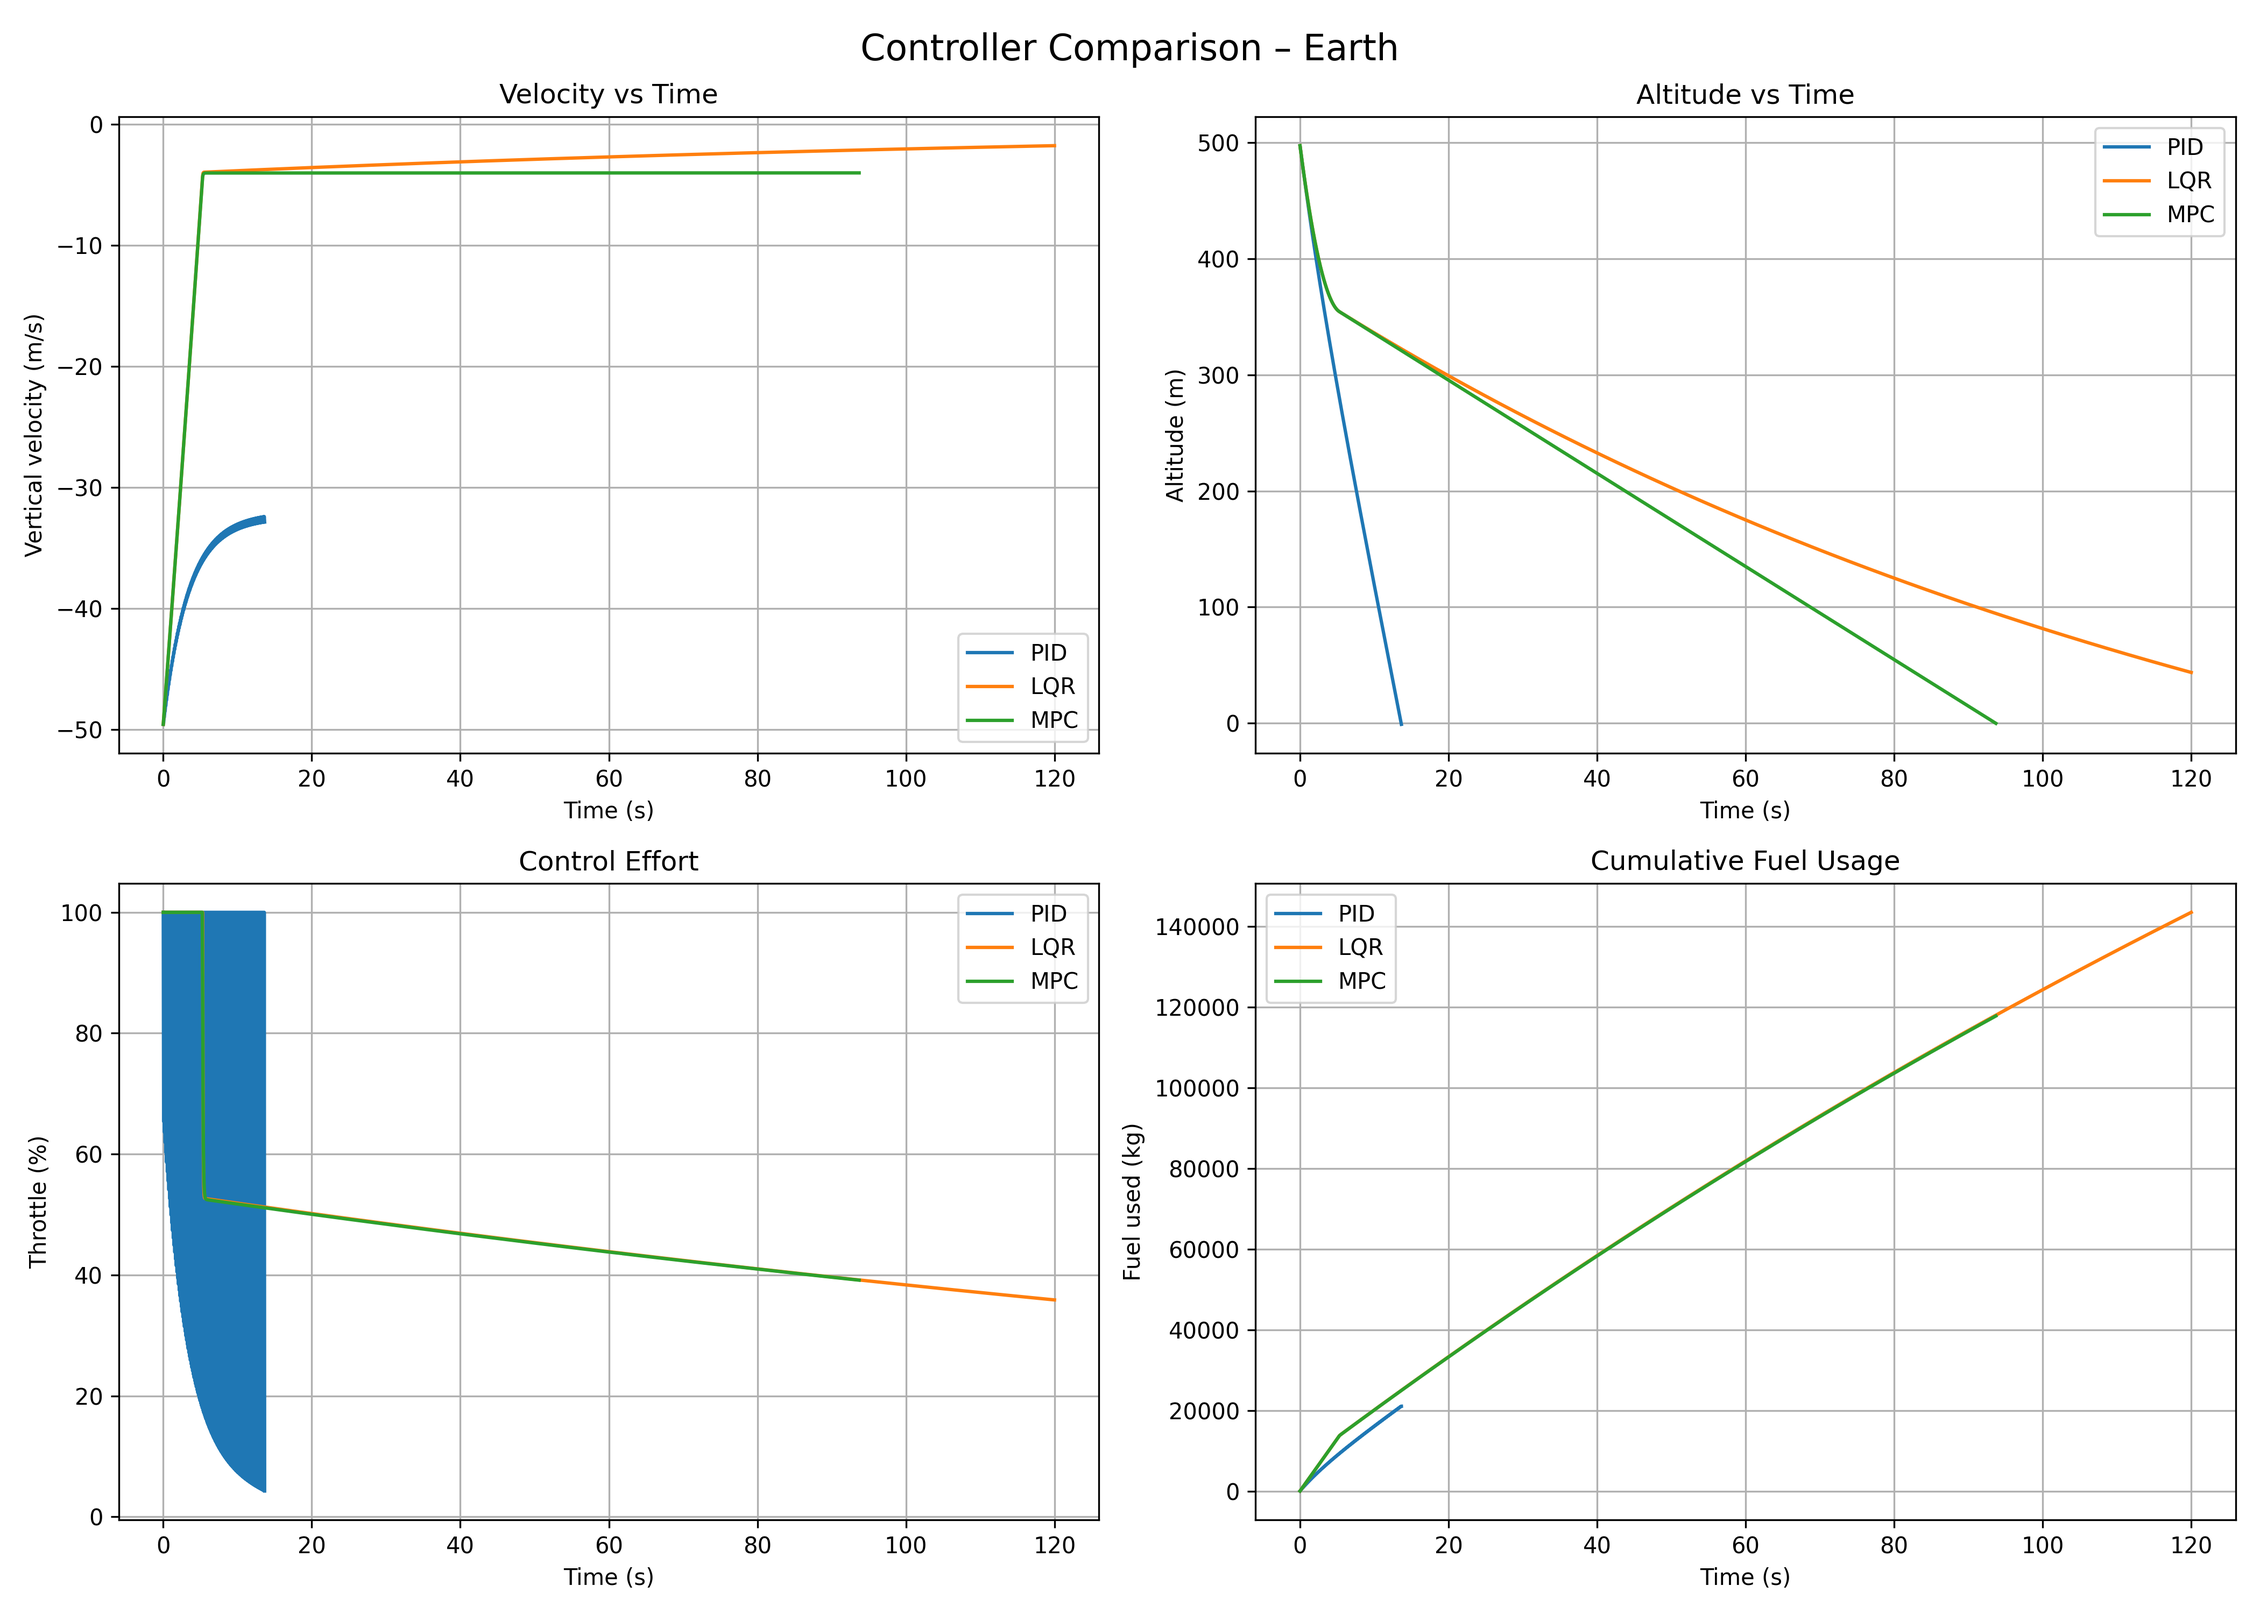
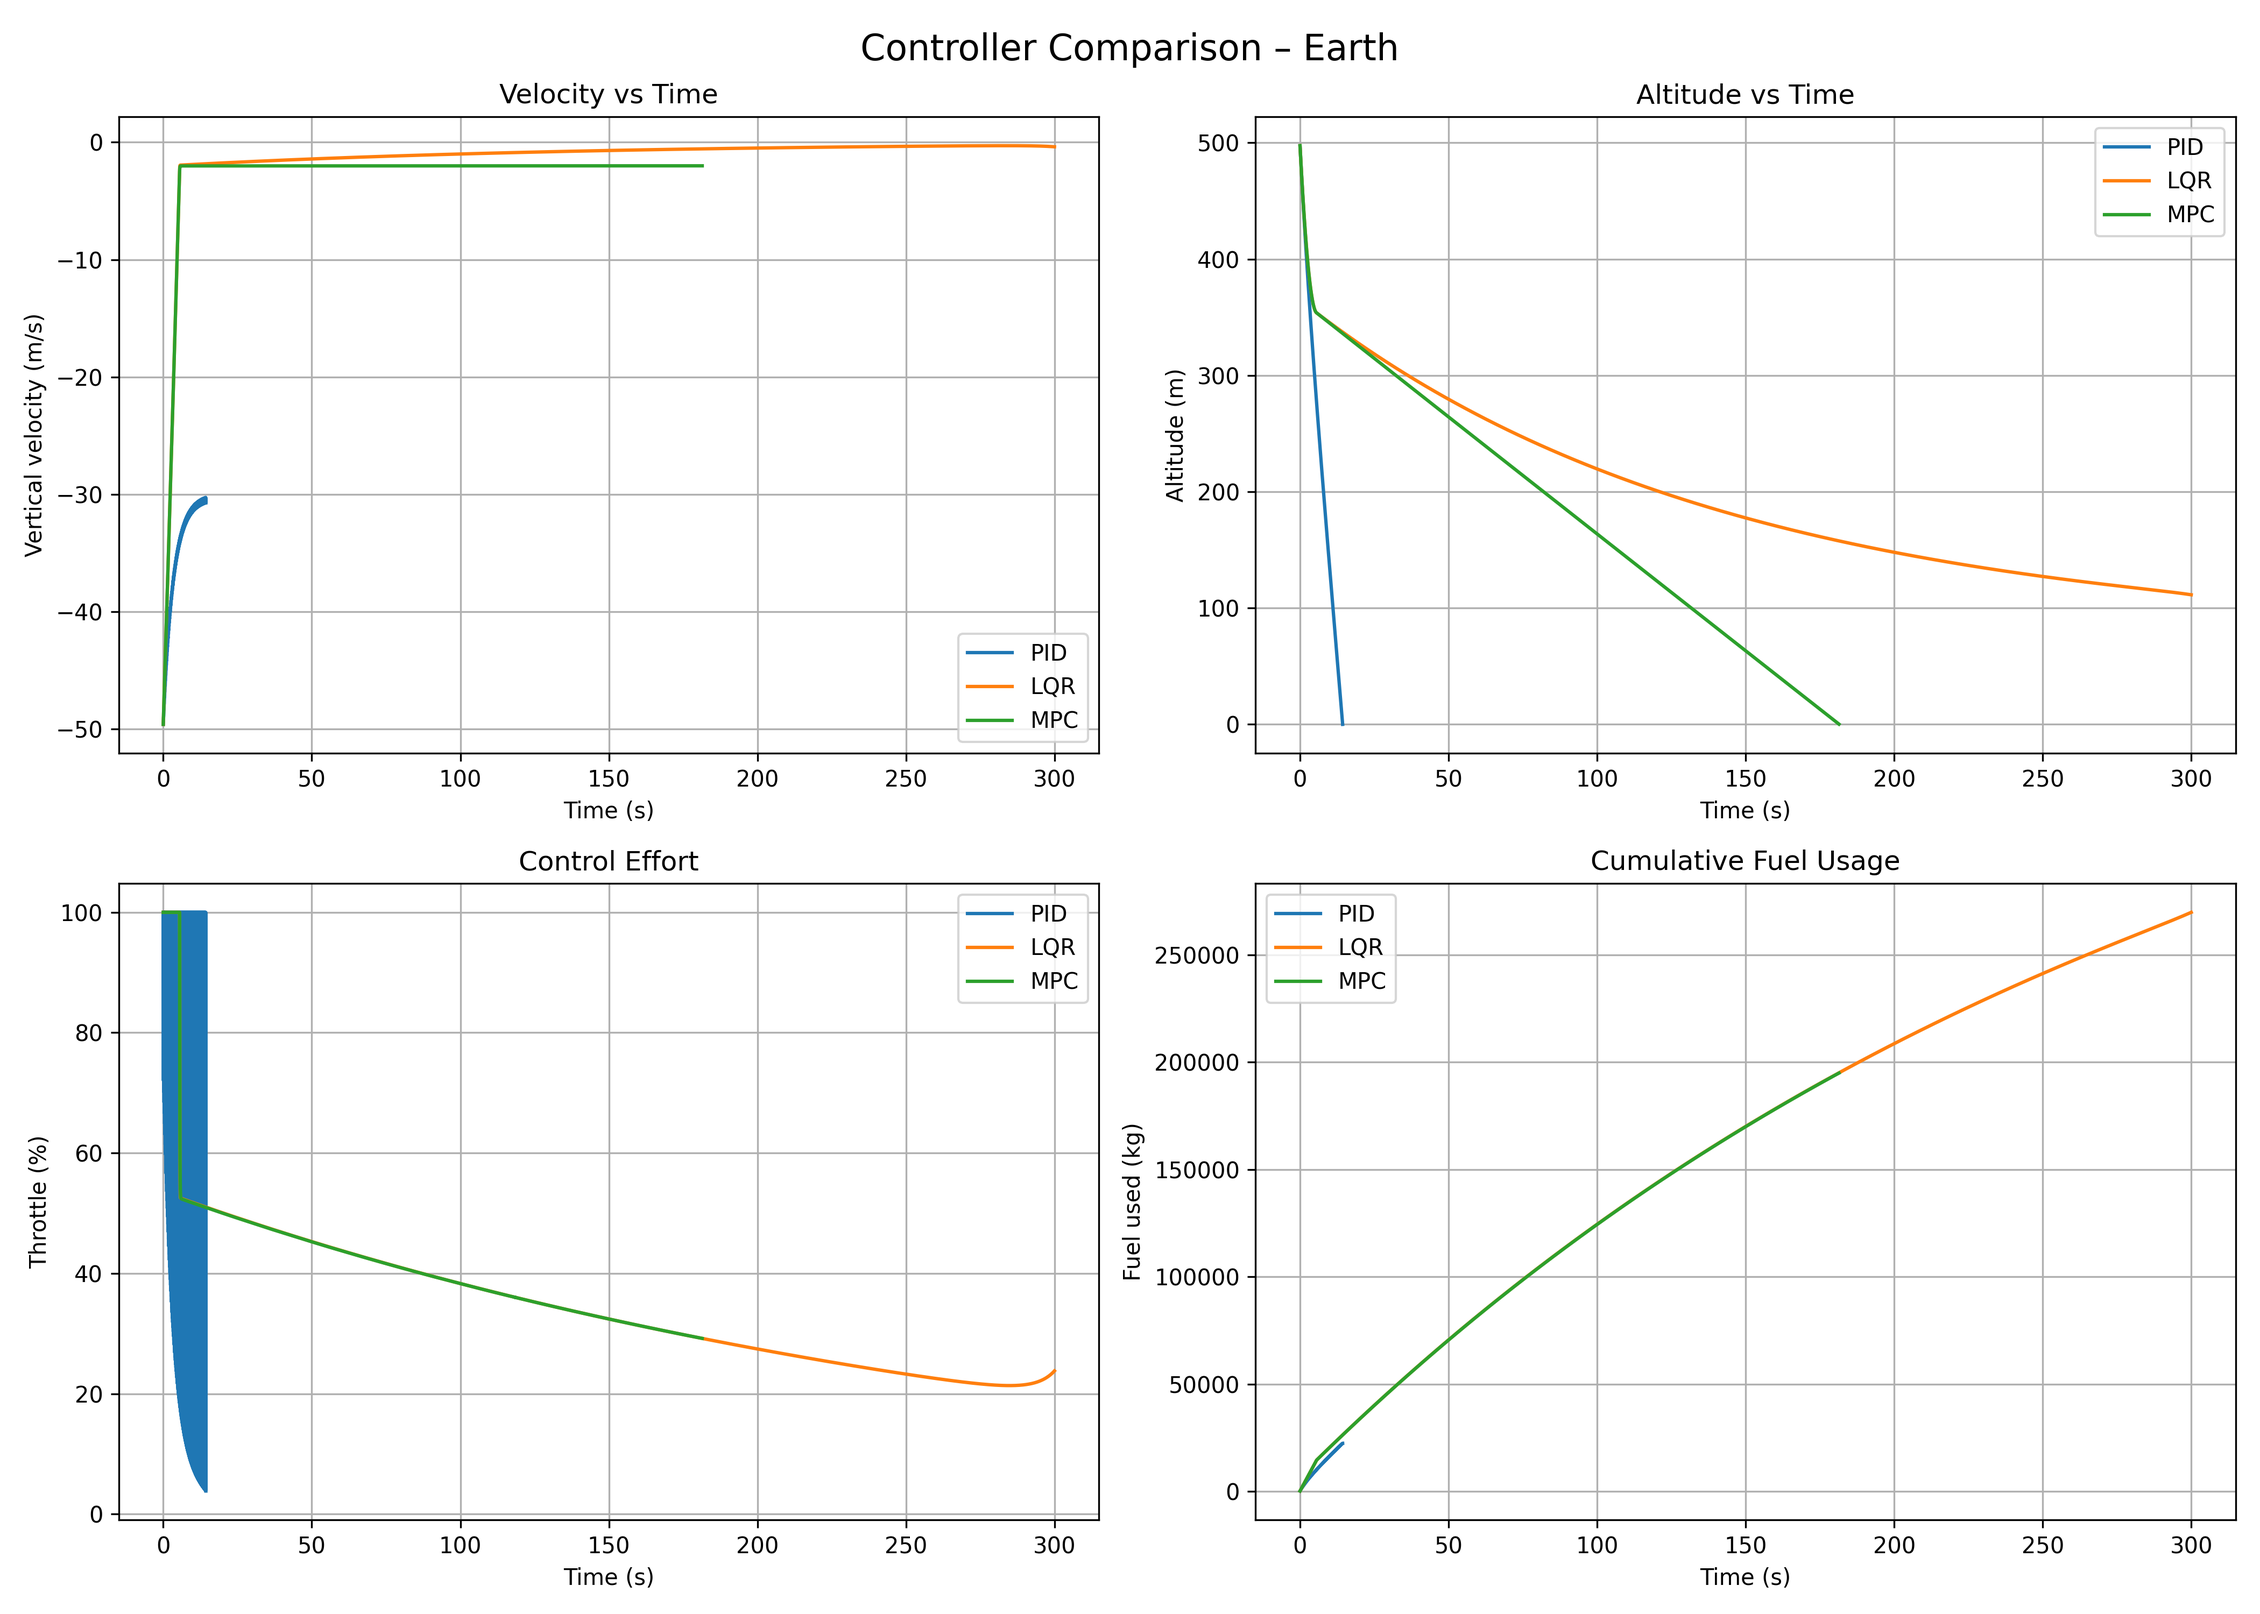
small initial state fixes

diff --git a/experiments/controller_comparison_experiment.py b/experiments/controller_comparison_experiment.py
@@ -38,15 +38,13 @@ class SimpleControllerExperiment:
         # ---------- INITIAL CONDITIONS ----------
         self.initial_altitude = 500.0        # m
         self.initial_velocity = -50.0        # m/s (downward)
-        self.target_velocity = -5.0          # m/s at touchdown
+        self.target_velocity = -3.0          # m/s at touchdown
         self.target_altitude = 0.0           # m
 
         self.dt = 0.05                       # s
-        self.max_time = 120.0                # s
+        self.max_time = 300.0                # s
 
-        # ---------- ACTUATOR LIMITS ----------
-        # Net vertical acceleration limits
-        self.accel_limits = (-9.81, 20.0)    # m/s²
+        self.accel_limits = (-9.81, 20.0) 
 
         # ---------- CONTROLLER CONFIGS ----------
         self.controller_configs = {

diff --git a/core/config.py b/core/config.py
@@ -5,7 +5,7 @@ INITIAL_ALTITUDE = 1000.0        # meters (fallback default, used when planet do
 INITIAL_VELOCITY = -20.0         # starting vertical velocity (m/s) (fallback default, used when planet doesn't specify)
 
 # Centralized setpoint and initial velocity
-LANDING_SETPOINT = -5.0          # desired vertical velocity at touchdown (m/s, negative = descending)
+LANDING_SETPOINT = -3.0          # desired vertical velocity at touchdown (m/s, negative = descending)
 
 # Velocity limits (safety/operational constraints)
 # Controllers maintain setpoint continuously until landing - these are maximum allowed velocities
